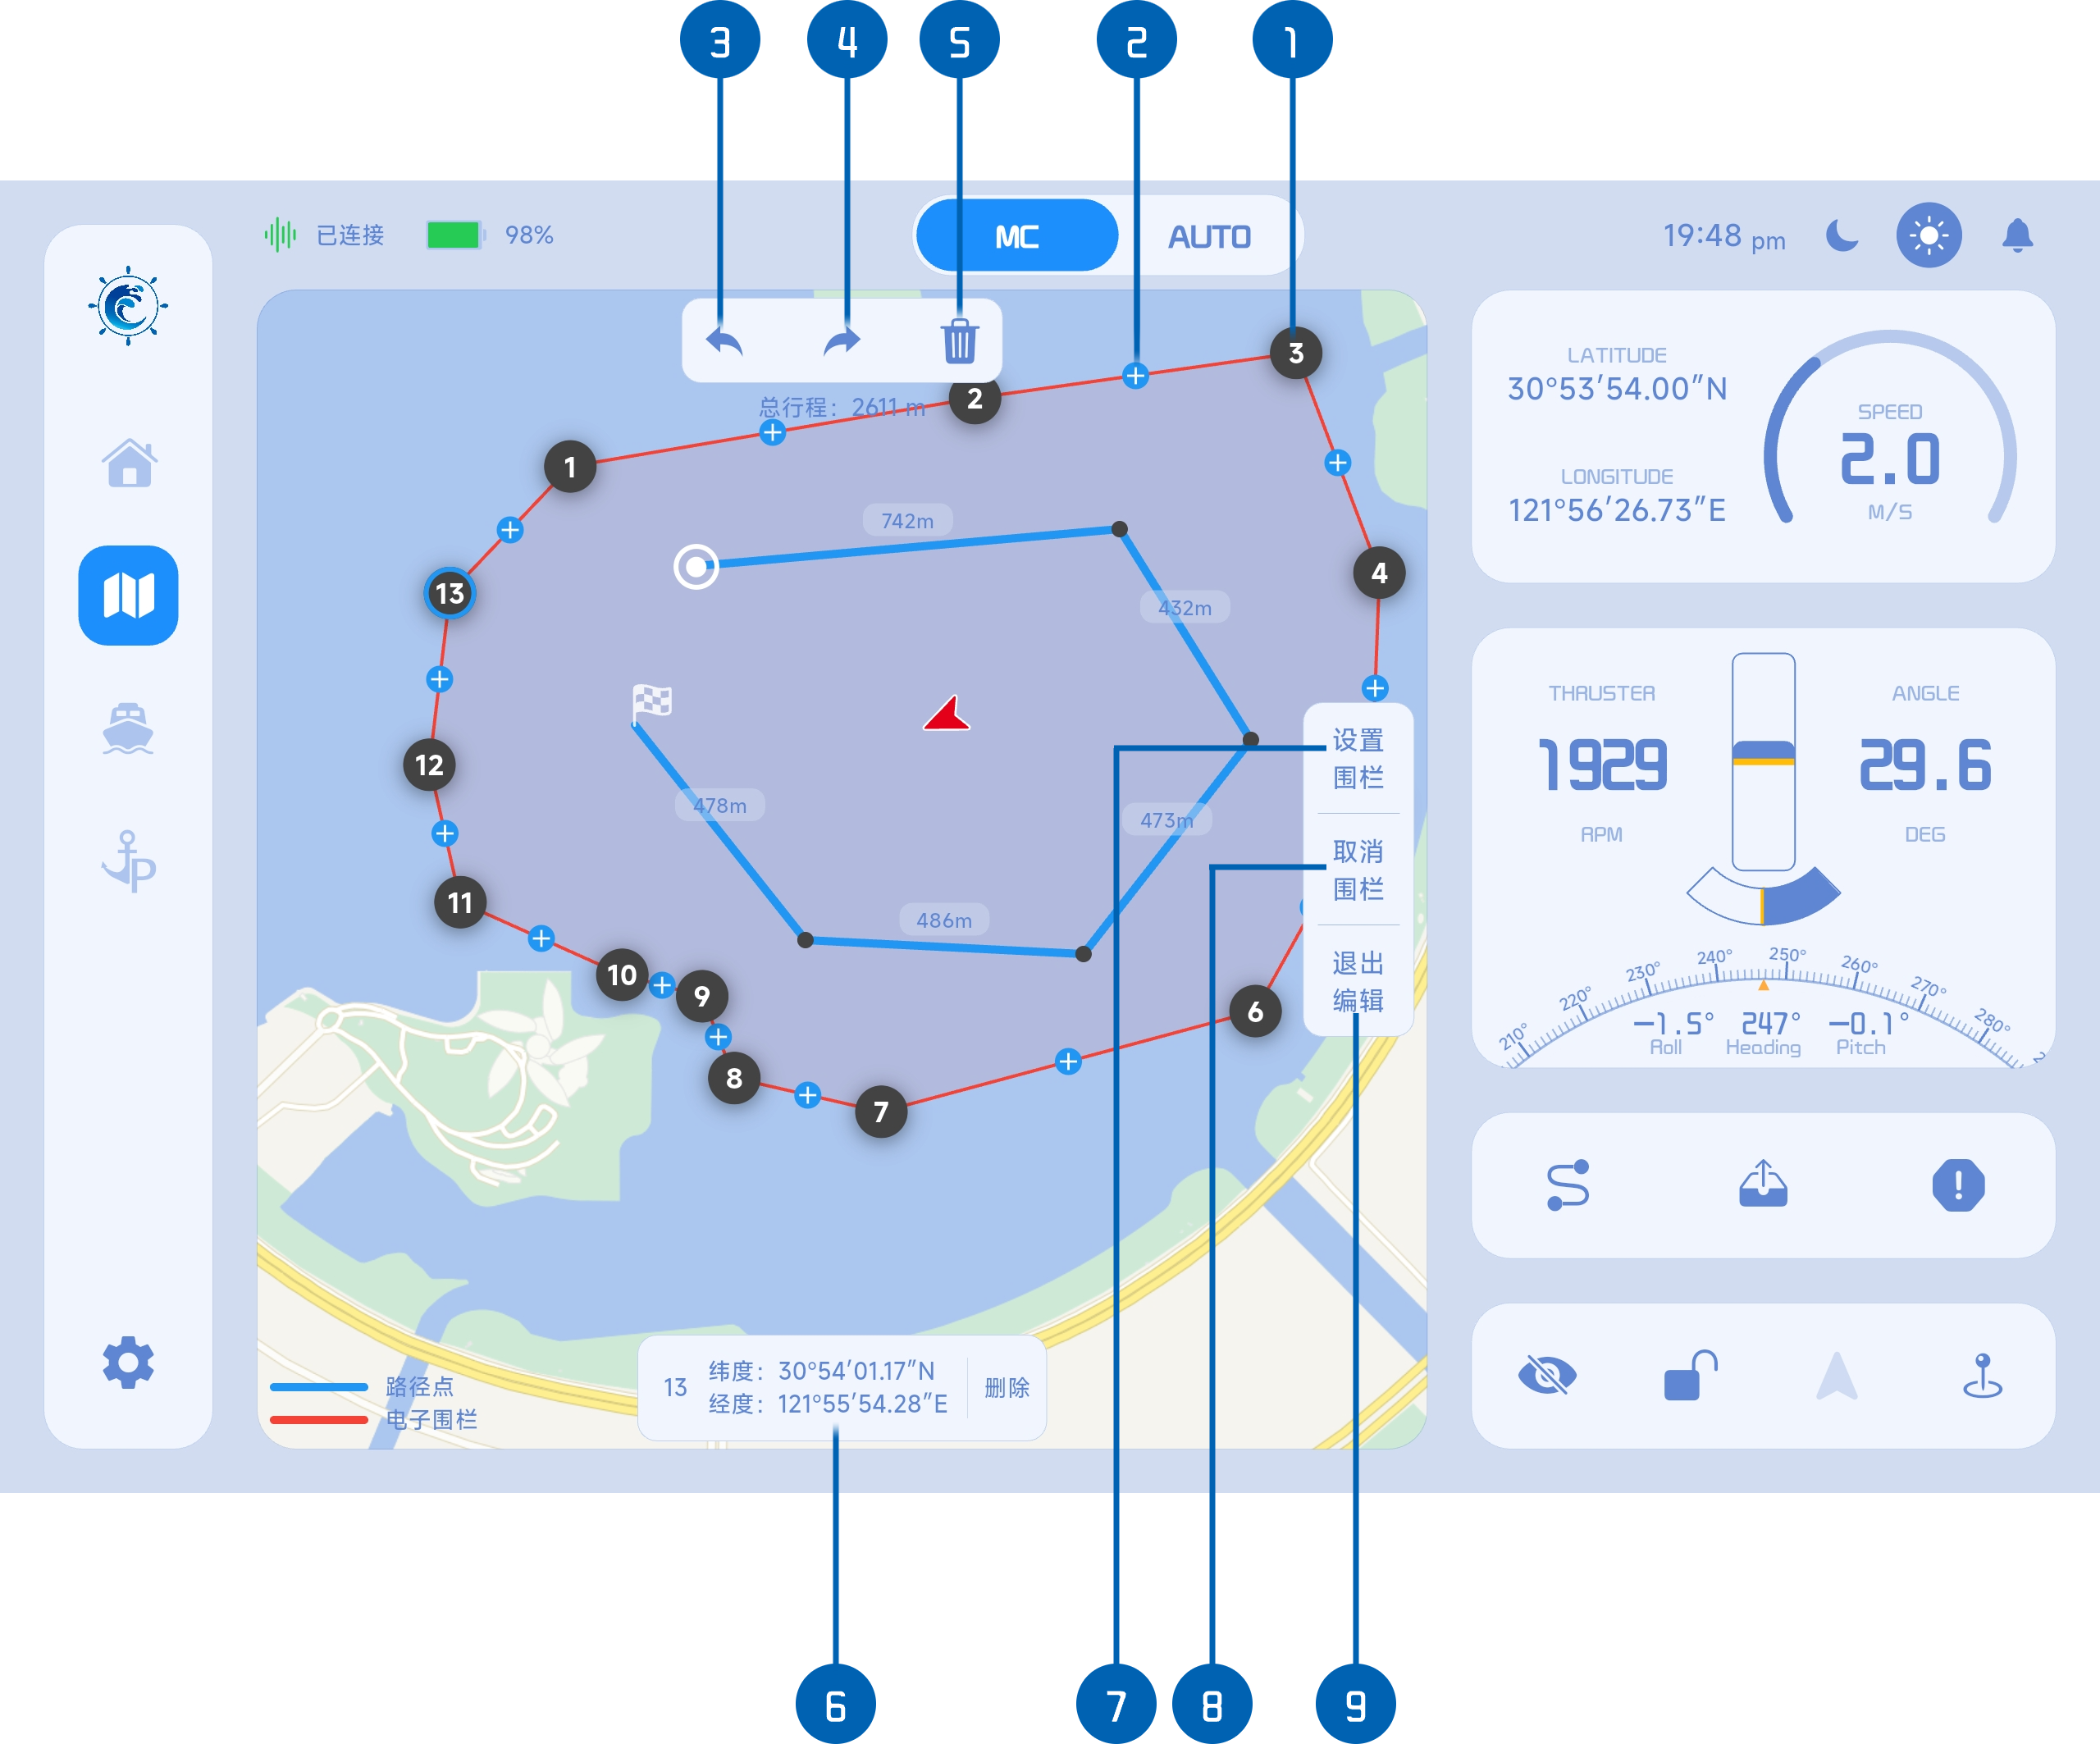
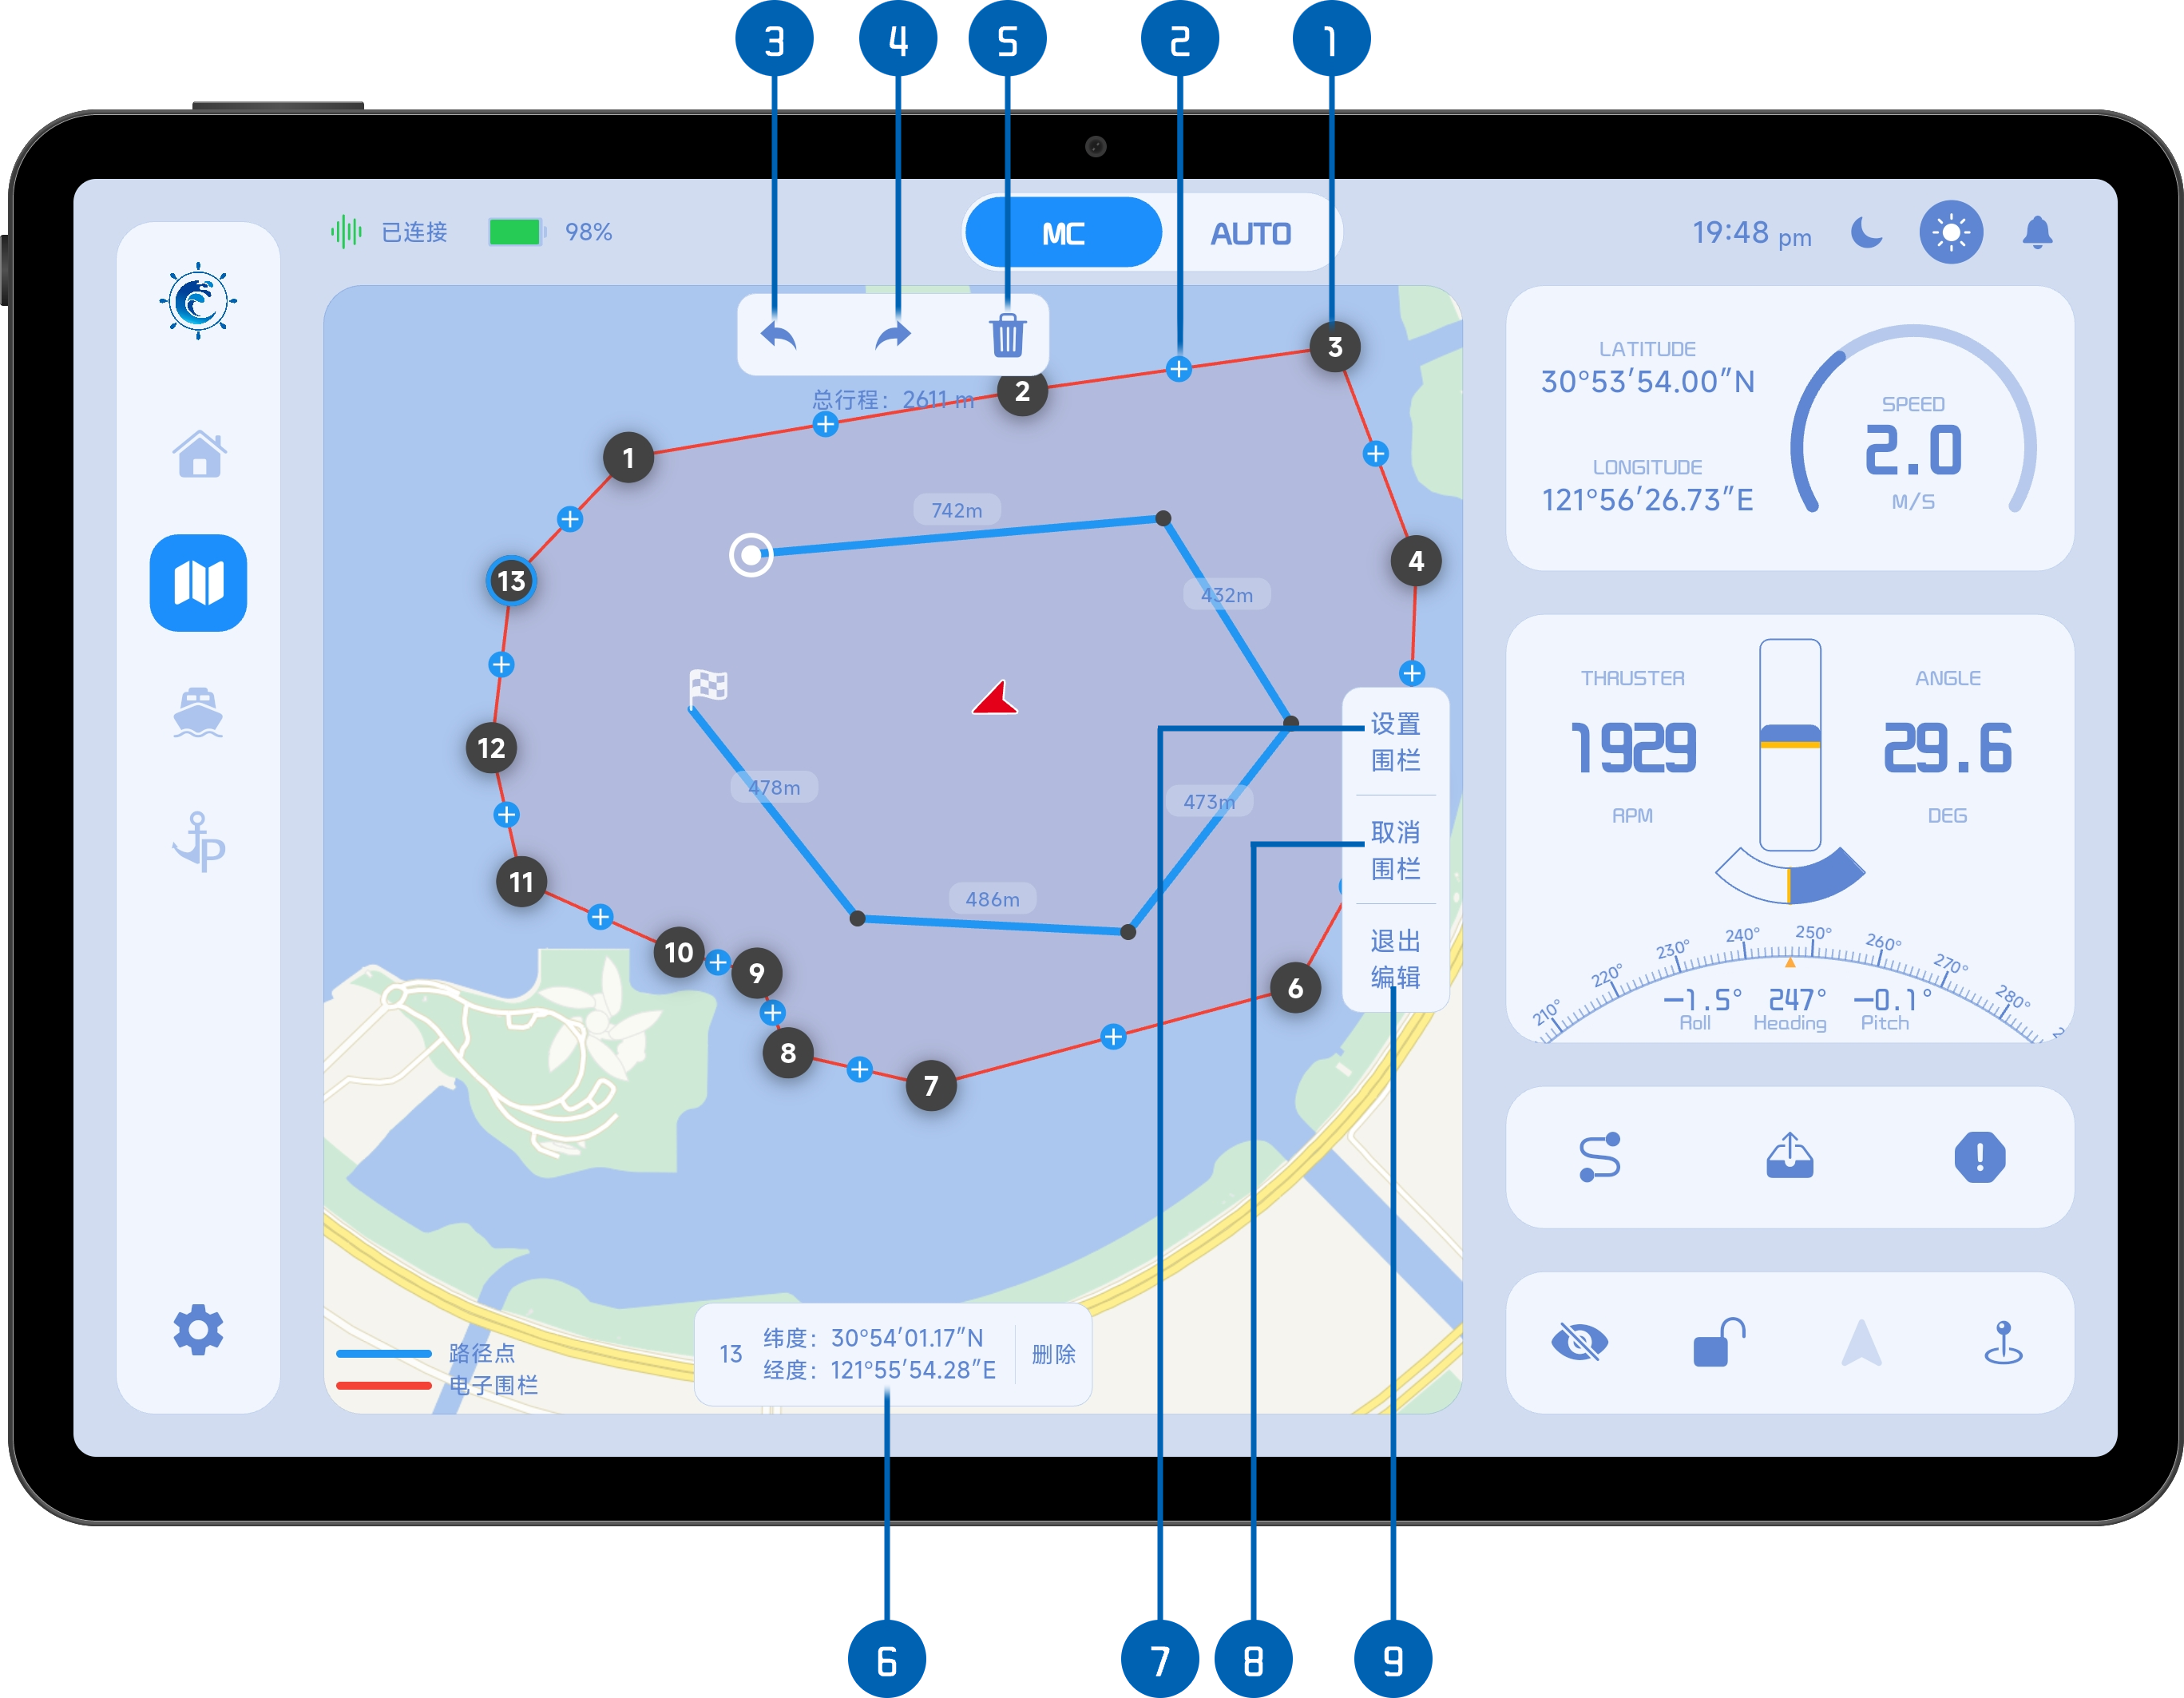
更新“电子围栏”部分的说明文档

diff --git a/docs/MapPage/feature/electronicFence.md b/docs/MapPage/feature/electronicFence.md
@@ -24,15 +24,15 @@
 
 ![电子围栏绘制](./img/electronicFence/电子围栏绘制.png)
 
-1. 围栏节点：构成电子围栏边界的基础点
-2. 边线中点：点击或拖动可在中点位置插入新节点
-3. 撤销操作：撤销上一步编辑
-4. 重做操作：恢复已撤销操作
-5. 清空围栏：删除当前所有围栏节点
-6. 节点详情：显示当前选中节点信息，可删除单个节点
-7. 设置围栏：提交当前围栏并进入确认流程
-8. 取消围栏：取消当前已设置的电子围栏
-9. 退出编辑：退出编辑模式并隐藏绘制工具
+1. **围栏节点**：构成电子围栏边界的基础点
+2. **边线中点**：点击或拖动可在中点位置插入新节点
+3. **撤销操作：** <img src="./img/electronicFence/undo.svg" width="20" style="display:inline;vertical-align:middle;" />撤销上一步编辑
+4. **重做操作：** <img src="./img/electronicFence/redo.svg" width="20" style="display:inline;vertical-align:middle;" />恢复已撤销操作
+5. **清空围栏：** <img src="./img/electronicFence/delete.svg" width="20" style="display:inline;vertical-align:middle;" />删除当前所有围栏节点
+6. **节点详情：**显示当前选中节点信息，点击右侧删除<img src="./img/electronicFence/delete.svg" width="20" style="display:inline;vertical-align:middle;" />按钮可删除当前点
+7. **设置围栏：**提交当前围栏并进入确认流程
+8. **取消围栏：**取消当前已设置的电子围栏
+9. **退出编辑：**退出编辑模式并隐藏绘制工具
 
 
 
@@ -44,7 +44,7 @@
 
 设置成功后，系统将启用电子围栏保护机制。
 
-![电子围栏设置弹窗](./img/electronicFence/电子围栏设置弹窗.jpg)
+![电子围栏设置弹窗](./img/electronicFence/电子围栏设置弹窗.png)
 
 
 